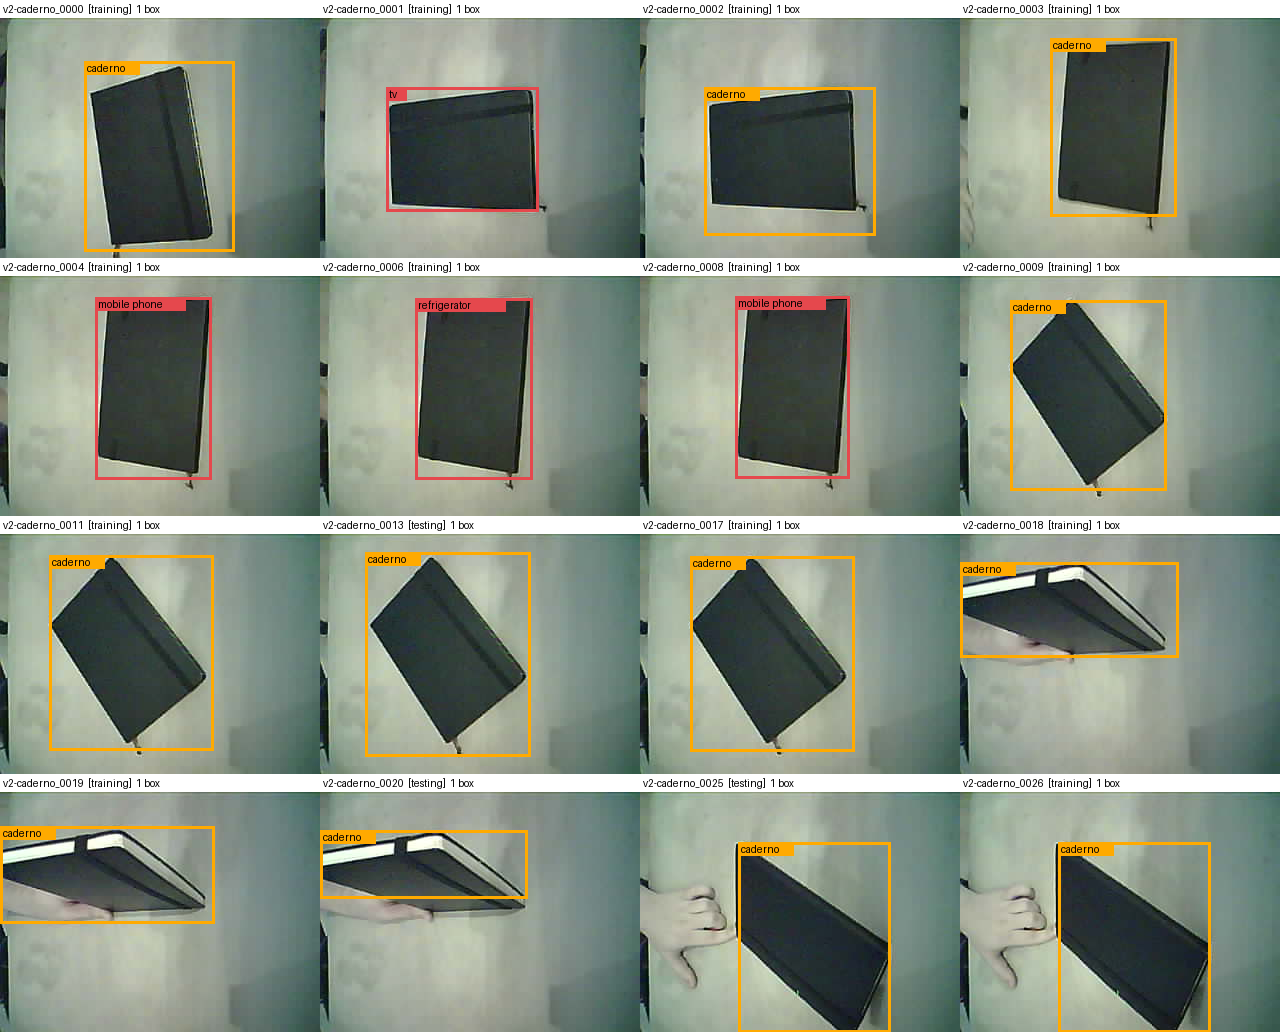
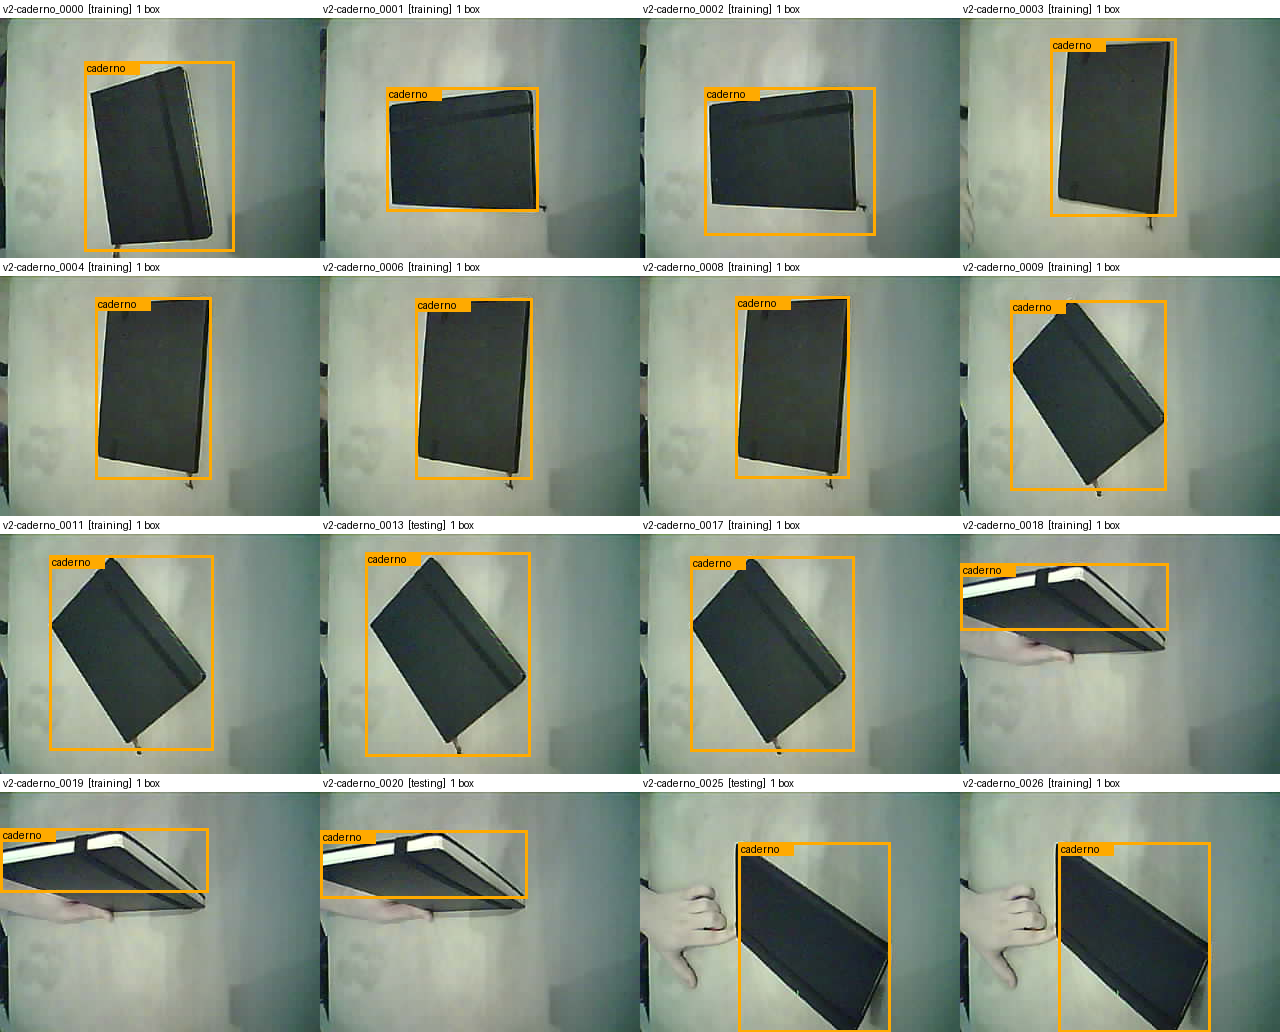
docs: rotulagem v2 completa (285 amostras, labels COCO corrigidos)
Mistos marcados (19 pela API); 12 labels de sugestão YOLOv5 renomeados para
as 3 classes; cadernos 0018/0019 com a mão retirada da box. check_labels:
caneca 123, caderno 108, garrafa 104, 0 objetos sem box.

diff --git a/HANDOFF.md b/HANDOFF.md
@@ -17,9 +17,14 @@ afirmar qualquer coisa — este arquivo é um retrato de 2026-10-28.
   - Coleta gerou 128 cópias idênticas (tecla repetida no mesmo quadro): apagadas no EI, movidas para fora
     do dataset localmente; bug corrigido no viewer (`532ee14`, 34 testes). Fotos movidas de pasta pelo
     Ricardo mantêm o nome antigo localmente; no EI foram renomeadas `v2-<pasta>_movida-<nome>`.
-- **Próximo passo (Ricardo):** Step 7 — boxes manuais em Data acquisition → **Labeling queue**
-  (249 amostras; vazio sem box). Depois: `tools/check_labels.py` (esperado 0 objetos sem box, 0 boxes
-  `vazio`) → Step 8 retreino (dá para disparar pela API: a chave do `.env` agora é **Admin**).
+  - **Step 7 feito (2026-10-29):** 285 amostras ativas (227 treino / 58 teste), boxes: caneca 123,
+    caderno 108, garrafa 104; `check_labels` → 0 objetos sem box. Rotulagem: Ricardo marcou parte dos
+    mistos/cadernos no Studio (sugestões YOLOv5, labels COCO corrigidos depois via API); caderno, caneca,
+    garrafa e o resto dos mistos foram marcados pela API com revisão visual (sub-agentes + conferência),
+    regra **mão sempre fora da box** (no FOMO, mão fora da box vira exemplo de background). 4 amostras
+    desativadas por mão cobrindo o objeto (caderno 0102/0103, garrafa 0036/0037). Folhas de conferência
+    em `docs/img/rotulagem-v2/` (`tools/folhas_rotulagem.py <cena>` regenera).
+- **Próximo passo:** Step 8 — retreino (dá para disparar pela API: a chave do `.env` é **Admin**).
 - **Placa:** está com o firmware de inferência v1 gravado. O build atual em `build/` é a versão
   final limpa (sem o log `[alloc]`); a placa ainda roda a anterior, que imprime `[alloc] 153937 B -> PSRAM`
   por ciclo — inofensivo, some na próxima gravação.
